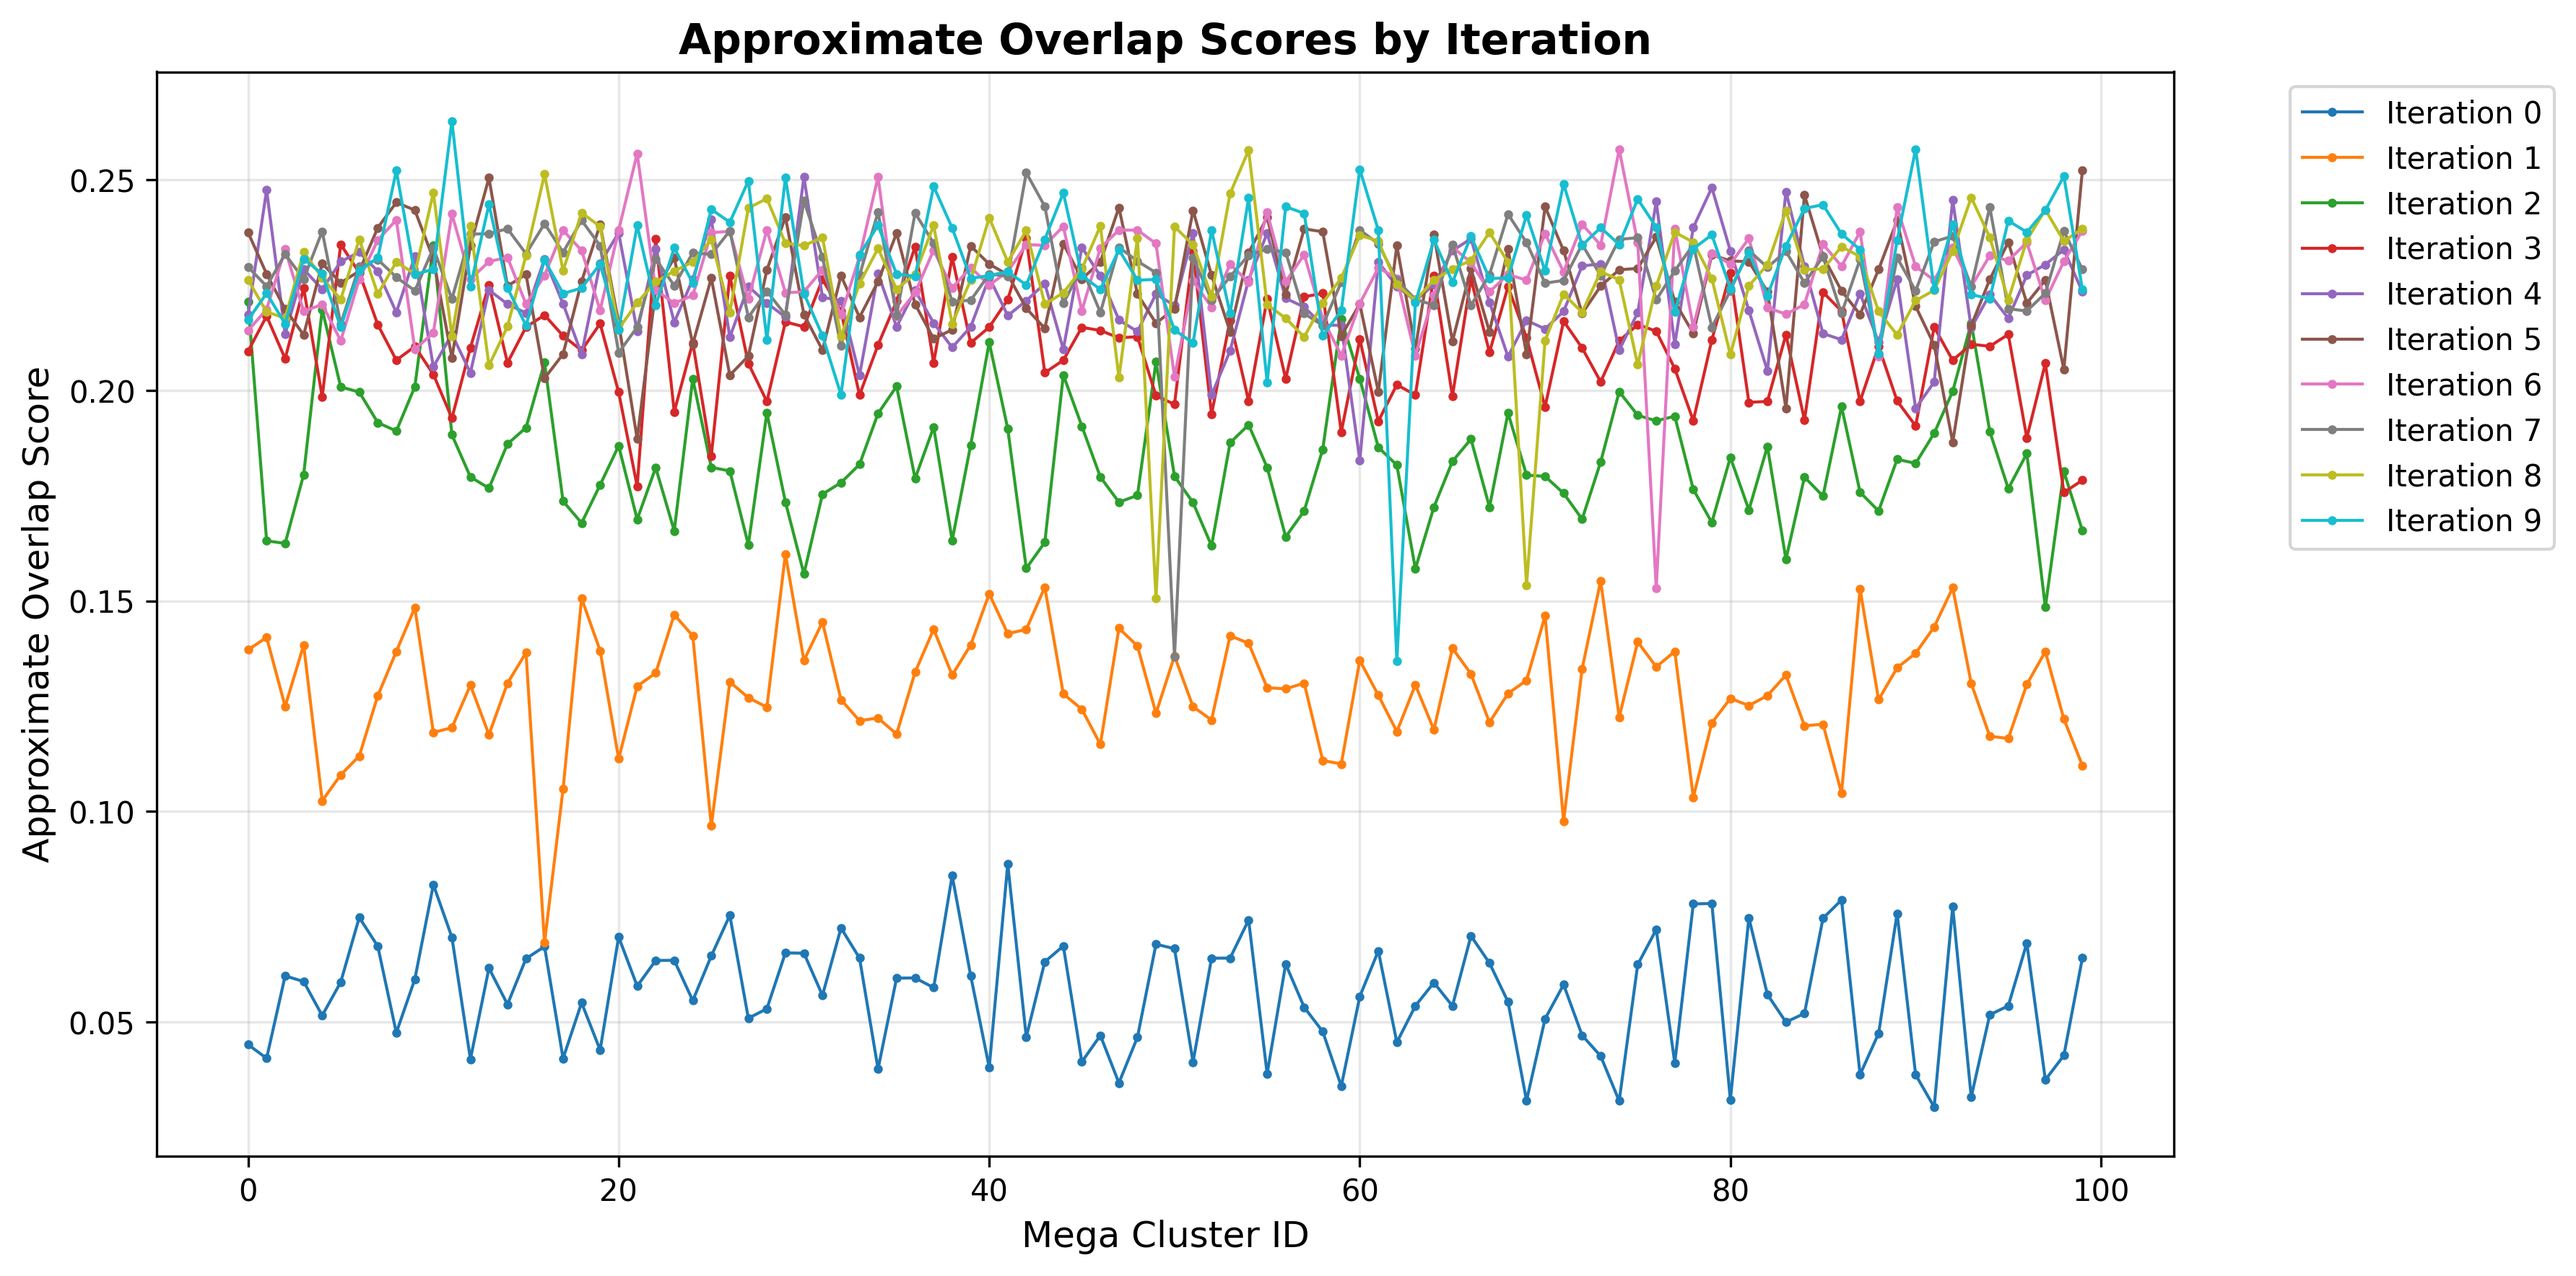
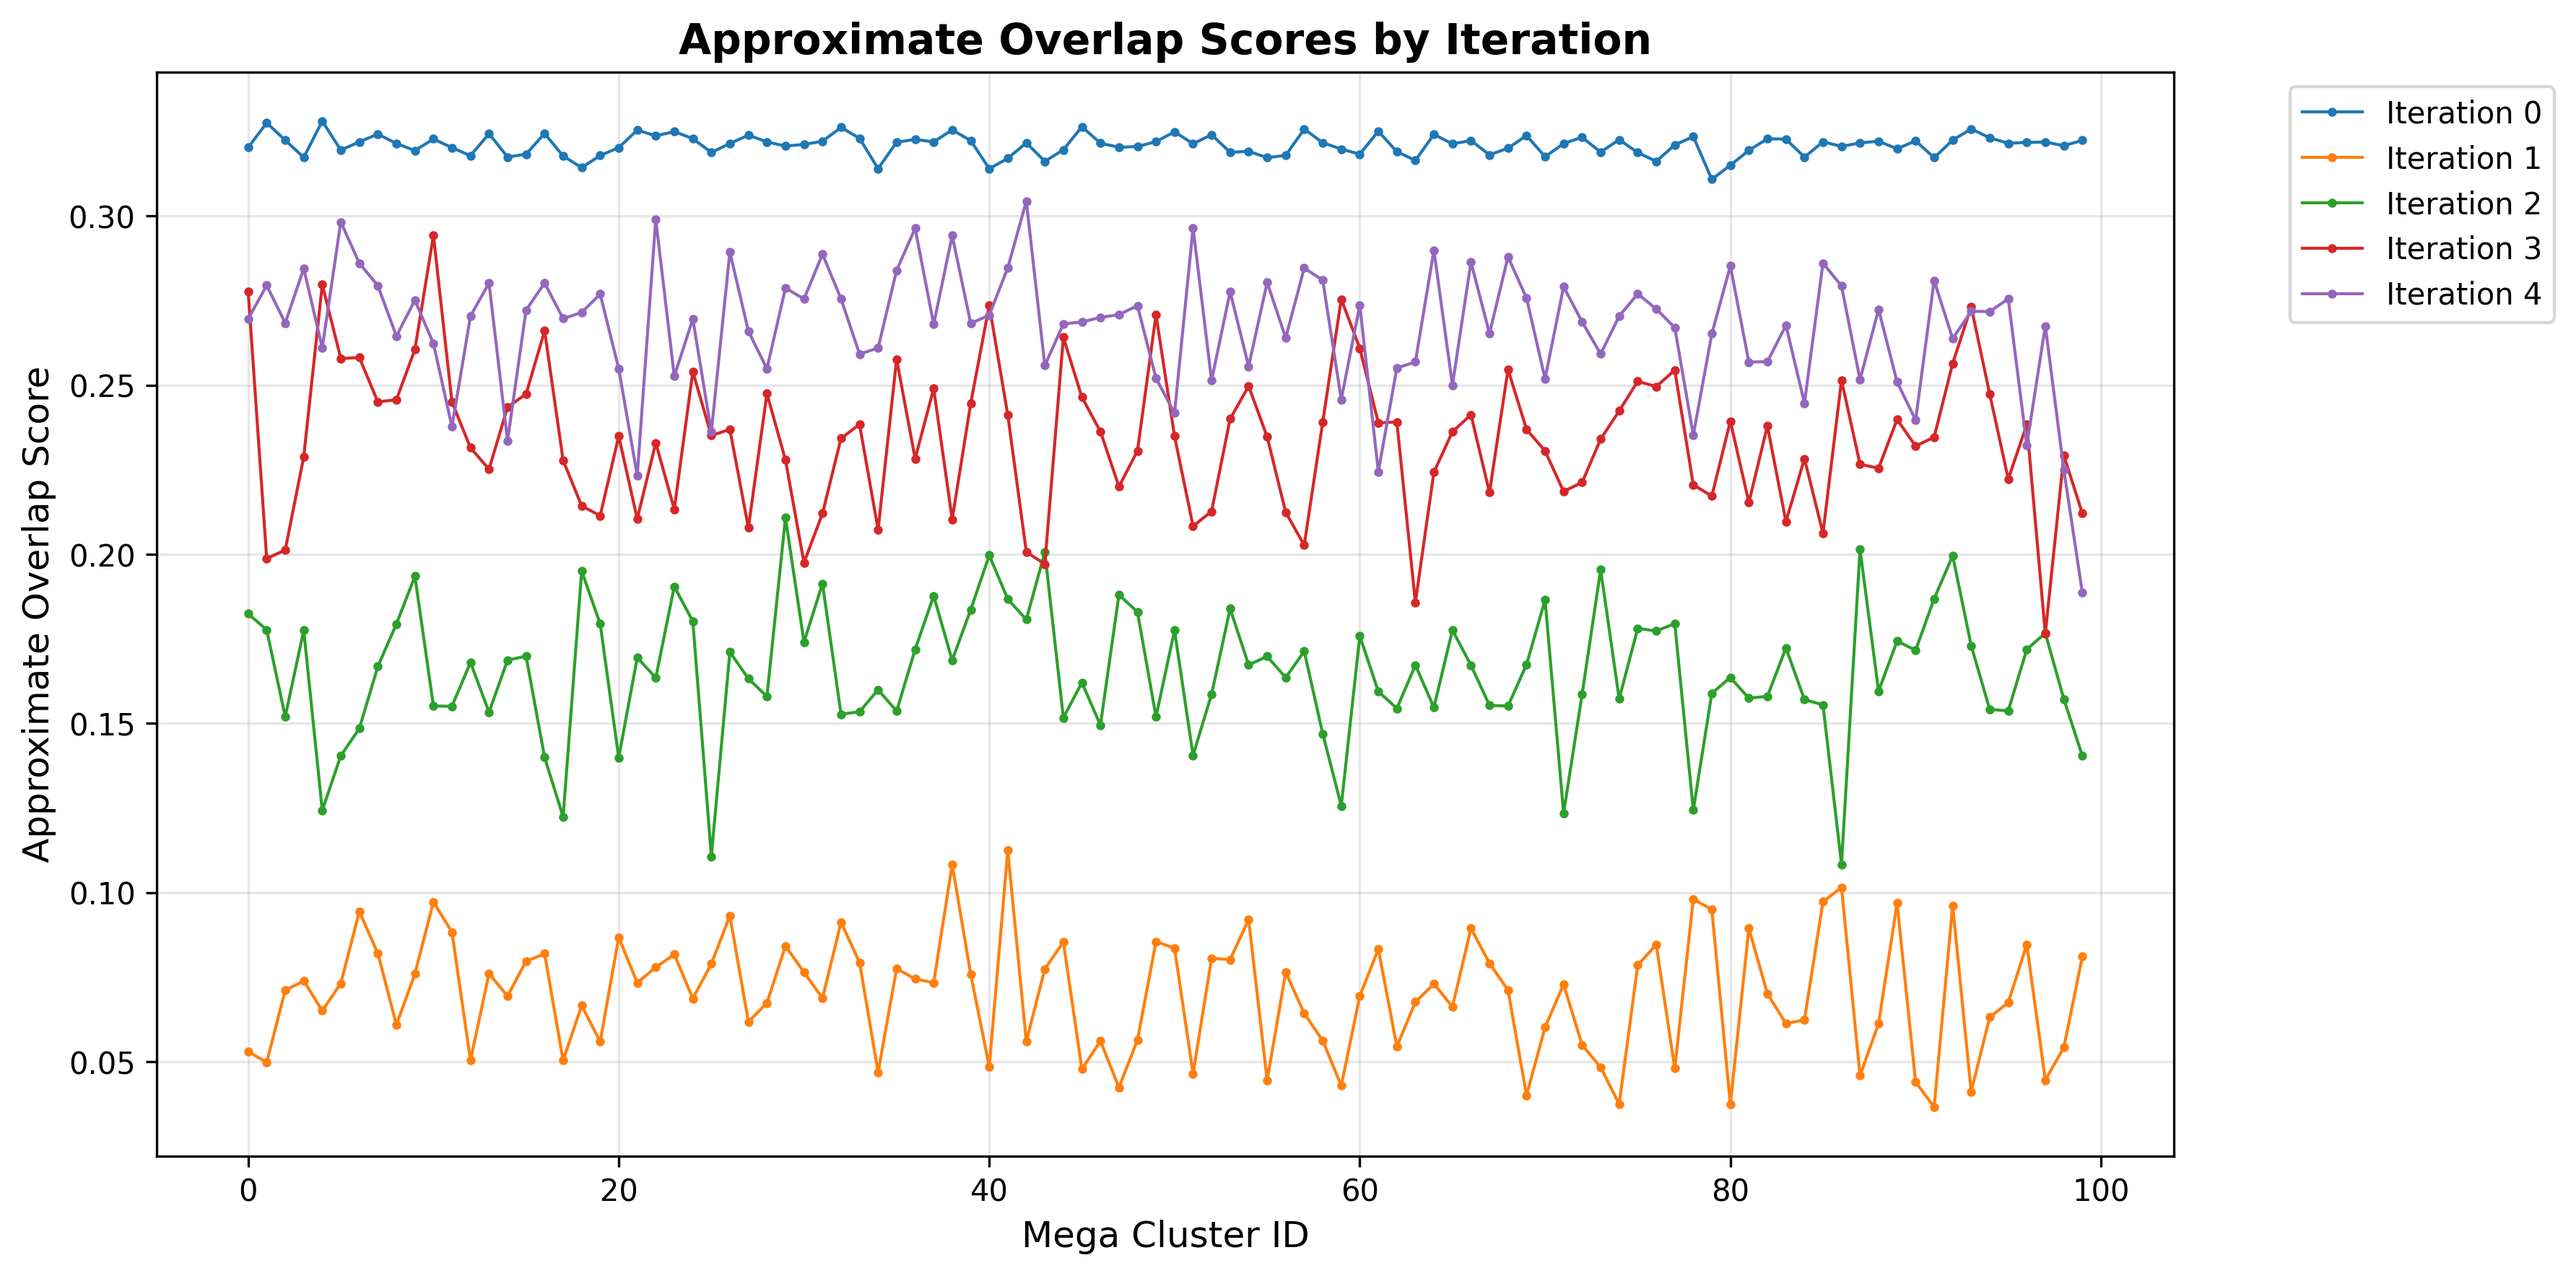
WIP: Reclustering Approach

diff --git a/plot_overlap_scores.py b/plot_overlap_scores.py
@@ -1,7 +1,8 @@
 #!/usr/bin/env python3
 """
-Script to plot real and approximate overlap scores from binary files.
-Each iteration is plotted as a separate line.
+Script to plot real and approximate overlap scores, and recall values from binary files.
+Each iteration is plotted as a separate line for overlap scores.
+Recall values are plotted with separate lines for each probe combination.
 """
 
 import os
@@ -107,6 +108,115 @@ def plot_overlap_scores(approx_files, real_files, output_dir='.'):
         print(f"Saved real overlap scores plot to {output_path}")
         plt.close()
 
+def plot_recall_scores(recall_files, output_dir='.'):
+    """Plot recall scores with separate line for each iteration.
+    X-axis: query index (0-9), Y-axis: recall.
+    Each recall file contains 10 doubles (one recall per query)."""
+    
+    # Read recall scores
+    recall_data = {}
+    expected_num_queries = 10  # Fixed: 10 queries per file
+    
+    for iter_num, filepath in sorted(recall_files.items()):
+        try:
+            recalls = read_binary_doubles(filepath)
+            num_values = len(recalls)
+            
+            print(f"Read recall file for iteration {iter_num} ({filepath}): {num_values} values")
+            if num_values > 0:
+                print(f"  First 3 values: {recalls[:min(3, num_values)]}")
+                print(f"  Value range: [{np.min(recalls):.4f}, {np.max(recalls):.4f}]")
+            
+            if num_values != expected_num_queries:
+                print(f"  Warning: Expected {expected_num_queries} queries, but found {num_values} values")
+                # If it's exactly 10, use it; otherwise take first 10 or all if less than 10
+                if num_values == expected_num_queries:
+                    recall_data[iter_num] = recalls
+                elif num_values > expected_num_queries:
+                    print(f"  Taking first {expected_num_queries} values")
+                    recall_data[iter_num] = recalls[:expected_num_queries]
+                else:
+                    print(f"  Using all {num_values} values (less than expected)")
+                    recall_data[iter_num] = recalls
+            else:
+                recall_data[iter_num] = recalls
+                print(f"  Successfully loaded {expected_num_queries} query recall values")
+            
+        except Exception as e:
+            print(f"Error reading {filepath}: {e}")
+            import traceback
+            traceback.print_exc()
+    
+    if not recall_data:
+        print("No recall score files found!")
+        return
+    
+    # Determine actual number of queries from data (use minimum to ensure consistency)
+    if not recall_data:
+        print("No valid recall data found!")
+        return
+    
+    num_queries = min(len(recalls) for recalls in recall_data.values())
+    
+    print(f"\nPlotting recall data: {len(recall_data)} iterations, {num_queries} queries per iteration")
+    
+    # Verify all iterations have the same number of queries
+    for iter_num, recalls in recall_data.items():
+        if len(recalls) != num_queries:
+            print(f"  Warning: Iteration {iter_num} has {len(recalls)} values, will use first {num_queries}")
+    
+    # Plot recall vs query index with separate line for each iteration
+    plt.figure(figsize=(14, 8))
+    
+    iterations = sorted(recall_data.keys())
+    query_indices = np.arange(num_queries)
+    
+    for iter_num in iterations:
+        if iter_num in recall_data:
+            recalls = recall_data[iter_num]
+            # Take only the first num_queries values
+            valid_recalls = recalls[:num_queries]
+            print(f"  Plotting iteration {iter_num}: {len(valid_recalls)} values, range [{np.min(valid_recalls):.2f}, {np.max(valid_recalls):.2f}]")
+            plt.plot(query_indices, valid_recalls, label=f'Iteration {iter_num}', 
+                    marker='o', markersize=5, linewidth=2)
+    
+    plt.xlabel('Query Index', fontsize=12)
+    plt.ylabel('Recall', fontsize=12)
+    plt.title(f'Recall Scores by Query (Each Line = One Iteration, {num_queries} Queries)', fontsize=14, fontweight='bold')
+    plt.legend(bbox_to_anchor=(1.05, 1), loc='upper left')
+    plt.grid(True, alpha=0.3)
+    plt.xticks(query_indices)  # Show all query indices
+    plt.tight_layout()
+    
+    output_path = os.path.join(output_dir, 'recall_scores.png')
+    plt.savefig(output_path, dpi=300, bbox_inches='tight')
+    print(f"\nSaved recall scores plot to {output_path}")
+    plt.close()
+    
+    # Also create a heatmap if we have multiple iterations
+    if len(iterations) > 1:
+        # Create matrix: rows = iterations, cols = queries
+        recall_matrix = np.zeros((len(iterations), num_queries))
+        for i, iter_num in enumerate(iterations):
+            if iter_num in recall_data:
+                recalls = recall_data[iter_num]
+                recall_matrix[i, :] = recalls[:num_queries]
+        
+        plt.figure(figsize=(max(12, num_queries * 0.8), max(8, len(iterations) * 0.5)))
+        im = plt.imshow(recall_matrix, aspect='auto', cmap='viridis', interpolation='nearest')
+        plt.colorbar(im, label='Recall')
+        plt.xlabel('Query Index', fontsize=12)
+        plt.ylabel('Iteration', fontsize=12)
+        plt.title('Recall Scores Heatmap', fontsize=14, fontweight='bold')
+        plt.yticks(range(len(iterations)), [f'Iter {iter}' for iter in iterations])
+        plt.xticks(range(num_queries), range(num_queries))
+        plt.tight_layout()
+        
+        output_path = os.path.join(output_dir, 'recall_scores_heatmap.png')
+        plt.savefig(output_path, dpi=300, bbox_inches='tight')
+        print(f"Saved recall scores heatmap to {output_path}")
+        plt.close()
+
 def main():
     """Main function."""
     import argparse
@@ -126,12 +236,14 @@ def main():
     # Find files
     approx_files = find_iteration_files('approx_overlap_scores_iter_')
     real_files = find_iteration_files('real_overlap_scores_iter_')
+    recall_files = find_iteration_files('recall_iter_')
     
     print(f"Found {len(approx_files)} approximate overlap score files")
     print(f"Found {len(real_files)} real overlap score files")
+    print(f"Found {len(recall_files)} recall score files")
     
-    if not approx_files and not real_files:
-        print("No overlap score files found in current directory!")
+    if not approx_files and not real_files and not recall_files:
+        print("No score files found in current directory!")
         return
     
     # Create output directory if it doesn't exist (use absolute path from original directory)
@@ -139,7 +251,11 @@ def main():
     os.makedirs(output_path, exist_ok=True)
     
     # Plot (use absolute path for output)
-    plot_overlap_scores(approx_files, real_files, output_path)
+    if approx_files or real_files:
+        plot_overlap_scores(approx_files, real_files, output_path)
+    
+    if recall_files:
+        plot_recall_scores(recall_files, output_path)
     
     # Change back to original directory
     os.chdir(original_dir)

diff --git a/src/main.cpp b/src/main.cpp
@@ -2938,19 +2938,16 @@ void benchmark_fast_reclustering(InputParser &input) {
     writeToFile(real_overlapping_file_path, reinterpret_cast<const uint8_t *>(overlapScores), numScores * sizeof(double));
 
     // Calculate and write recall after writing overlap scores
-    std::vector<double> recallValues;
-    for (auto nMegaProbe: nMegaProbes) {
-        for (auto nMiniProbe: nMiniProbes) {
-            std::vector<double> queryRecalls;
-            auto recall = get_recall(index, queryVecs, queryDimension, queryNumVectors, k, gtVecs, nMegaProbe,
-                                     nMiniProbe, queryRecalls);
-            recallValues.push_back(recall);
-        }
+    // Write per-query recall for the first probe combination
+    std::vector<double> queryRecalls;
+    if (!nMegaProbes.empty() && !nMiniProbes.empty()) {
+        auto recall = get_recall(index, queryVecs, queryDimension, queryNumVectors, k, gtVecs, nMegaProbes[0],
+                                 nMiniProbes[0], queryRecalls);
     }
-    // Write recall values to binary file
+    // Write per-query recall values to binary file
     auto recall_file_path = "recall_iter_" + std::to_string(0) + ".bin";
-    writeToFile(recall_file_path, reinterpret_cast<const uint8_t *>(recallValues.data()),
-                recallValues.size() * sizeof(double));
+    writeToFile(recall_file_path, reinterpret_cast<const uint8_t *>(queryRecalls.data()),
+                queryRecalls.size() * sizeof(double));
 
     if (useMSEToRecluster) {
         return;
@@ -2983,19 +2980,16 @@ void benchmark_fast_reclustering(InputParser &input) {
         writeToFile(real_overlapping_file_path, reinterpret_cast<const uint8_t *>(overlapScores), numScores * sizeof(double));
 
         // Calculate and write recall after writing overlap scores
-        std::vector<double> recallValues;
-        for (auto nMegaProbe: nMegaProbes) {
-            for (auto nMiniProbe: nMiniProbes) {
-                std::vector<double> queryRecalls;
-                auto recall = get_recall(index, queryVecs, queryDimension, queryNumVectors, k, gtVecs, nMegaProbe,
-                                         nMiniProbe, queryRecalls);
-                recallValues.push_back(recall);
-            }
+        // Write per-query recall for the first probe combination
+        std::vector<double> queryRecalls;
+        if (!nMegaProbes.empty() && !nMiniProbes.empty()) {
+            auto recall = get_recall(index, queryVecs, queryDimension, queryNumVectors, k, gtVecs, nMegaProbes[0],
+                                     nMiniProbes[0], queryRecalls);
         }
-        // Write recall values to binary file
+        // Write per-query recall values to binary file
         auto recall_file_path = "recall_iter_" + std::to_string(iter + 1) + ".bin";
-        writeToFile(recall_file_path, reinterpret_cast<const uint8_t *>(recallValues.data()),
-                    recallValues.size() * sizeof(double));
+        writeToFile(recall_file_path, reinterpret_cast<const uint8_t *>(queryRecalls.data()),
+                    queryRecalls.size() * sizeof(double));
 
         // quantizedRecall = get_quantized_recall(index, queryVecs, queryDimension, queryNumVectors, k, gtVecs,
                                              // nMegaProbes, nMiniProbes);
